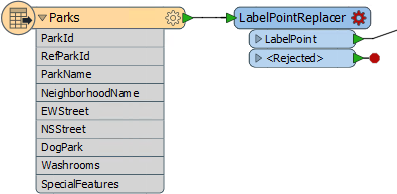
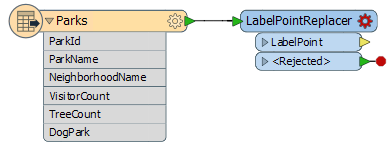
Spelling and grammar for ch 4

diff --git a/DesktopAdvanced4Parameters/4.Exercise3.md b/DesktopAdvanced4Parameters/4.Exercise3.md
@@ -40,7 +40,7 @@
 
 In a previous project (in the FME Basic Desktop training) you created a project to transform parks data by calculating the size and average size of each park. 
 
-The team who are using this now want to implement it on FME Server. At the same time they want to improve some of the functionality and implement a custom translation log.
+The team who are using this now want to implement it on FME Server. At the same time, they want to improve some of the functionality and implement a custom translation log.
 
 As you created the original workspace, you are assigned to carry out these upgrades to your former work.
 
@@ -71,7 +71,7 @@ So, next create a text format user parameter to ask for the user's name:
 
 ![](./Images/Img4.231.Ex3.UsernameUserParameter.png)
 
-Ensure that the optional checkbox is unchecked; we want users to have to enter a value in here. Also make sure Attribute Assignment is Off because we don't want them to be able to select an attribute.
+Ensure that the optional checkbox is unchecked; we want users to have to enter a value in here. Also, make sure Attribute Assignment is Off because we don't want them to be able to select an attribute.
 
 
 <br>**3) Add User Parameter**
@@ -118,7 +118,7 @@ Locate the FME parameter for Destination MapInfo Folder in the Navigator window 
 In that dialog manually enter: 
 
 <pre>
-$(OutputFolder)\$(username)
+$(OutputFolder)\$(Username)
 </pre>
 
 ![](./Images/Img4.233.Ex3.DestinationParameterConcatenated.png)
@@ -127,7 +127,7 @@ Alternatively, use the text editor where you can add these by double-clicking, t
 
 You've basically concatenated/embedded the two user parameters into the FME parameter. 
 
-When you run the workspace you will be prompted to enter your name and then the output data will now be written to C:\FMEData2018\Output\Training\&lt;username&gt;
+When you run the workspace you will be prompted to enter your name and then the output data will now be written to C:\FMEData2018\Output\Training\&lt;Username&gt;
 
 ---
 
@@ -144,7 +144,7 @@ When you run the workspace you will be prompted to enter your name and then the 
 <tr>
 <td style="border: 1px solid darkorange">
 <span style="font-family:serif; font-style:italic; font-size:larger">
-There are various ways we <strong>could</strong> have done this. We could have set the OutputFolder parameter to C:\FMEData2018\Output\Training\$(username) and then linked it to the FME Destination MapInfo parameter. You'll see in a moment why we didn't do that!
+There are various ways we <strong>could</strong> have done this. We could have set the OutputFolder parameter to C:\FMEData2018\Output\Training\$(Username) and then linked it to the FME Destination MapInfo parameter. You'll see in a moment why we didn't do that!
 </span>
 </td>
 </tr>
@@ -155,7 +155,7 @@ There are various ways we <strong>could</strong> have done this. We could have s
 <br>**5) Add User Parameter**
 <br>The next task is to check whether dog parks are required in the output. The Tester transformer in the workspace shows that an attribute (DogParks) will have a value of Y or N to denote its status. We need to ask the user and add their decision to the Tester.
 
-So create a new user parameter. It will be a Choice type parameter that is **not** optional:
+Now create a new user parameter. It will be a Choice type parameter that is **not** optional:
 
 ![](./Images/Img4.234.Ex3.DogParkChoiceParameter.png)
 
@@ -316,7 +316,7 @@ Right-click on the attribute called User on the feature type and choose the opti
 
 ![](./Images/Img4.242.Ex3.CSVWriterNameAttrSetting.png)
 
-In the dialog that pops up enter $(username) for the value (you'll be prompted to select it as soon as you start to type):
+In the dialog that pops up enter $(Username) for the value (you'll be prompted to select it as soon as you start to type):
 
 ![](./Images/Img4.243.Ex3.CSVWriterNameAttrSetting2.png)
 

diff --git a/DesktopAdvanced4Parameters/4.Exercise2.md b/DesktopAdvanced4Parameters/4.Exercise2.md
@@ -90,7 +90,7 @@ This is not necessarily very useful. Since the data is located in Vancouver, BC,
 
 It would be preferable if the parameter only allowed the end-user to select a coordinate system from a smaller list. 
 
-So create a new user parameter (Right-click User Parameters &gt; Create User Parameter), and set the Type to be **Choice with Alias**. Set the Name to be CoordSysParam, and set the prompt to be Select Output Coordinate System:
+Now create a new user parameter (Right-click User Parameters &gt; Create User Parameter), and set the Type to be **Choice with Alias**. Set the Name to be CoordSysParam, and set the prompt to be Select Output Coordinate System:
 
 ![](./Images/Img4.220.Ex2.ChoiceWithAliasParameter.png)
 
@@ -116,8 +116,6 @@ Then click OK to close this dialog. You will be returned to the configuration di
 The left-hand side shows what the user is prompted to select, the right-hand side what the value fed to FME will be.
 
 Click OK and then OK again to close the remaining dialogs and create the user parameter.
-
-
 
 <br>**5) Link Coordinate System Parameter**
 <br>Now we have the user's selection, but we still have to apply it to the real parameter. So locate the writer’s coordinate system parameter, right-click on it, and choose Link to User Parameter:

diff --git a/DesktopAdvanced4Parameters/4.Exercise1.md b/DesktopAdvanced4Parameters/4.Exercise1.md
@@ -130,7 +130,7 @@ While here, click on the AuthorEmail and AuthorCompany fields, and press the min
 
 
 <br>**6) Fix Date Attribute**
-<br>Looking at the AttributeCreator we can see that the date field is being entered as a fixed value. Although not a user parameter as such, it's obvious that the user must be setting this manually at run time.
+<br>Looking at the AttributeCreator we can see that the date field is being entered as a fixed value. Although not a user parameter as such, it's obvious that the user must be setting this manually at runtime.
 
 Additionally, the date is not structured to an ISO standard, which is why the output fails XML validation. 
 

diff --git a/DesktopAdvanced4Parameters/4.09.ModuleReview.md b/DesktopAdvanced4Parameters/4.09.ModuleReview.md
@@ -13,7 +13,7 @@ The following are key points to be learned from this session:
 - User parameters can be linked to FME parameters as an indirect form of control
 - Many types of user parameters exist to allow the user to enter different types of information in a controlled way
 - Parameters can be shared to reuse their content in multiple places
-- Parameters can be embedded or scripted to construct complex values from simple input
+- Parameters can be embedded or scripted to construct complex values from a simple input
 - Parameters can be made to accept fixed values, attribute values, or both
 
 

diff --git a/WhatsNew.md b/WhatsNew.md
@@ -58,7 +58,8 @@ These changes are for the FME Desktop Advanced Training Course.
 
 
 ### User Parameters ###
--
+- Changed wording from Add Parameter to Create User Parameter
+- Updated screenshots to reflect new attributes in Parks.tab
 
 ### Custom Transformers ###
 -
